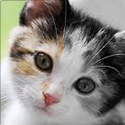
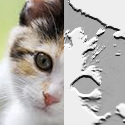
new demos

diff --git a/filter.html b/filter.html
@@ -1,0 +1,197 @@
+<html>
+	<head>
+		<title>Synapse.js - Image Filters</title>
+		<meta charset="UTF-8">
+		<meta name="description" content="Training a neural network to learn several image filters - Synapse.js">
+		<meta name="keywords" content="javascript,node.js,neural networks,lstm,long short term memory,library,synapse">
+		<meta name="author" content="Juan Cazala">
+		<script src='js/jquery.js'></script>
+		<script src='js/synapse.js'></script>
+		<style>
+			html {
+				box-shadow: 0 0 50px gray inset;
+			}
+			body { 
+				font-family: "Lucida Console", Monaco, monospace;
+				padding: 0px 25px;
+				position: relative;
+			}
+
+			.title {
+				text-align: center;
+				color: rgb(71, 71, 71);;
+				font-size: 27px;
+				margin: 36px;
+			}
+
+			p {
+				padding: 10px;
+				font-size: 12px;
+			}
+			#footer {
+				position: absolute;
+				font-size: 11px;
+				bottom: 10px;
+				margin-left: 50%;
+				left: -245px;
+			}
+			a{
+				color: gray;
+			}
+
+			img, canvas {
+				border: 1px solid black;
+				padding: 2px;
+				margin-right: 10px;
+				margin-bottom: 10px;
+				display: block;
+			}
+
+			.image_frame {
+				display: inline-block;
+				text-align: center;
+				font-size: 12px;
+			}
+
+			.train {
+				display: none;
+			}
+		</style>
+		<script>
+
+			var perceptron = null;
+			var worker = null;
+			var index = 0;
+			var color_data = null;
+			var grayscale_data = null;
+			var original_data = null;
+			var canvas = null;
+			var context = null;
+			var size = 125 * 125;
+			var trial = 0;
+
+			$(function(){
+				canvas = canvas || document.getElementById('canvas');
+		        context = context || canvas.getContext('2d');
+			})
+
+			var getData = function(imageObj){
+
+				canvas = canvas || document.getElementById('canvas');
+		        context = context || canvas.getContext('2d');
+
+		        context.drawImage(imageObj, 0, 0);
+
+		        var imageData = context.getImageData(0, 0, 125, 125);
+		        return imageData.data;
+			}
+
+			var train = function(){
+				trial = 0;
+
+				perceptron = new Architect.Perceptron(27,8,3);
+		        color_data = getData(document.getElementById('input'));
+		        grayscale_data = getData(document.getElementById('output'));
+ 				original_data = getData(document.getElementById('original'));
+
+ 				$(".train").show();
+				iteration();
+			}
+
+			
+			var iteration = function(){
+				trial++;
+
+				for (index = 0; index < size; index+=2)
+				{
+					px = pixel(color_data, 0, 0);
+					px = px.concat(pixel(color_data, -1, -1));
+					px = px.concat(pixel(color_data, 0, -1));
+					px = px.concat(pixel(color_data, 1, -1));
+					px = px.concat(pixel(color_data, -1, 0));
+					px = px.concat(pixel(color_data, 1, 0));
+					px = px.concat(pixel(color_data, -1, 1));
+					px = px.concat(pixel(color_data, 0, 1));
+					px = px.concat(pixel(color_data, 1, 1));
+					perceptron.activate(px);
+					perceptron.propagate(.3, pixel(grayscale_data,0,0));
+				}
+				preview();
+			}
+
+			var pixel = function(data, ox, oy){
+				var y = index / 125 | 0;
+				var x = index % 125;
+
+				if (ox && (x + ox) > 0 && (x + ox) < 125)
+					x += ox;
+				if (oy && (y + oy) > 0 && (y + oy) < 125)
+					y += oy;
+
+				var red = data[((125 * y) + x) * 4];
+		        var green = data[((125 * y) + x) * 4 + 1];
+		        var blue = data[((125 * y) + x) * 4 + 2];
+
+		        return [red / 255, green / 255, blue / 255];
+			}
+
+			var preview = function(){
+				var imageData = context.getImageData(0, 0, 125, 125);
+				for (index = 0; index < size; index++)
+				{
+					var px = pixel(original_data, 0, 0);
+					px = px.concat(pixel(original_data, -1, -1));
+					px = px.concat(pixel(original_data, 0, -1));
+					px = px.concat(pixel(original_data, 1, -1));
+					px = px.concat(pixel(original_data, -1, 0));
+					px = px.concat(pixel(original_data, 1, 0));
+					px = px.concat(pixel(original_data, -1, 1));
+					px = px.concat(pixel(original_data, 0, 1));
+					px = px.concat(pixel(original_data, 1, 1));
+					var rgb = perceptron.activate(px);
+					imageData.data[index * 4] = (rgb[0] )* 255;
+					imageData.data[index * 4 + 1] = (rgb[1] ) * 255;
+					imageData.data[index * 4 + 2] = (rgb[2] ) * 255;
+				}
+				context.putImageData(imageData,0,0);
+				setTimeout(iteration,100);
+			}
+
+		</script>
+		<script>
+  (function(i,s,o,g,r,a,m){i['GoogleAnalyticsObject']=r;i[r]=i[r]||function(){
+  (i[r].q=i[r].q||[]).push(arguments)},i[r].l=1*new Date();a=s.createElement(o),
+  m=s.getElementsByTagName(o)[0];a.async=1;a.src=g;m.parentNode.insertBefore(a,m)
+  })(window,document,'script','//www.google-analytics.com/analytics.js','ga');
+
+  ga('create', 'UA-54879338-2', 'auto');
+  ga('send', 'pageview');
+
+</script>
+	</head>
+	<body>
+		
+		<div class='title'>Synapse.js - Image Filters</div>
+		<p> In this demo, a perceptron will be trained to learn how to apply different filters to an image. During the training, the network will receive a picture as an input, and a filtered version of that same picture as an output (RGB values of their pixels). Eventually, the network will be able to take any picture as input and it will output a filtered version of it.</p>
+		<p><b>Training set:</b></p>
+		<div class="image_frame"><img src='img/cat.png' id='input'/><span>input</span></div>
+		<div class="image_frame"><img src='img/cat_bw.png' id='output'/><span>output</span></div>
+
+		<p>&nbsp;</p>
+		<p> Start training: 
+			<select id="comboA" onchange="document.getElementById('output').src = this.value">
+				<option value="img/cat_bw.png">Grayscale</option>
+				<option value="img/cat_blur.png">Blur</option>
+				<option value="img/cat_glow.png">Glowing Edges</option>
+				<option value="img/cat_texture.png">Texture</option>
+				<option value="img/cat_neon.png">Neon Glow</option>
+			</select>
+			<button onclick="train();">START</button></p>
+		
+		<div class="train">
+		<div class="image_frame"><img src='img/cat_original.png' id='original'/><span>original</span></div>
+		<div class="image_frame"><canvas id='canvas' width =125 height=125></canvas><span>filtered</span></div>
+		</div>
+		<div id="footer"><a href='http://synapse.juancazala.com'>synapse.js</a> - javascript neural network library for node.js and the browser</div>
+	</body>
+</html>

diff --git a/dsr.html b/dsr.html
@@ -17,7 +17,6 @@
 				font-family: "Lucida Console", Monaco, monospace;
 				padding: 0px 25px;
 				position: relative;
-				line-height: 120%;
 			}
 			.title {
 				text-align: center;
@@ -41,7 +40,6 @@
 				color: gray;
 				padding-left: 13px;
 				font-size: 11px;
-				line-height: 100%;
 			}
 			.validate {
 				width: 16;
@@ -107,7 +105,6 @@
 			}
 
 			var train = function(){
-				$("#aux").remove();
 				$('.log').remove();
 				$("#log-validate").remove();
 
@@ -308,7 +305,7 @@
 			<li>Sequence: <span class="square" style="background-color:blue">&nbsp;</span> <span class="square" style="background-color:yellow">&nbsp;</span> <span class="square" style="background-color:yellow">&nbsp;</span> <span class="square" style="background-color:red">&nbsp;</span> <span class="square" style="background-color:blue">&nbsp;</span> <span class="square" style="background-color:yellow">&nbsp;</span> <span class="square" style="background-color:green">&nbsp;</span> <span class="square" style="background-color:yellow">&nbsp;</span> <span class="square" style="background-color:white">&nbsp;</span> <span class="square" style="background-color:black">&nbsp;</span></li>
 		</ul>
 		 <p>Note that the targets may appear at any point in the sequence, so the network cannot rely on their temporal position; rather, the network must recognize the symbols as targets and preferentially save them, along with temporal order information, in order to produce the correct output sequence.</p>
-		 <p>The network is trained to produce <b>no output</b> for all symbols except for the prompts, and for each prompt symbol the network must produce the output symbol which corresponds to the appropriate target from the sequence. For the sequence shown above, the prompts should output <span class="square" style="background-color:red">&nbsp;</span> <span class="square" style="background-color:green">&nbsp;</span>, respectively.</p>
+		 <p>The network is trained to produce <b>no output</b> for all symbols except the prompts, and for each prompt symbol the network must produce the output symbol which corresponds to the appropriate target from the sequence. For the sequence shown above, the prompts should output <span class="square" style="background-color:red">&nbsp;</span> <span class="square" style="background-color:green">&nbsp;</span>, respectively.</p>
 		 <p>The network doesn't have any prior knowledge of which are the target, distractor or prompt symbols, nor what is the length of the sequence, it has to learn all this information during its training process.</p>
 		 <p>In this sample a <a href='http://en.wikipedia.org/wiki/Long_short_term_memory'>Long Short Term Memory</a> network (6 input neurons, 7 memory blocks, and 2 output neurons) will be trained to complete the Distracted Sequence Recall task with a success rate of at least 95%.</p>
 		<p class='code'>var LSTM = new Architect.LSTM(6,7,2);<br>
@@ -319,7 +316,6 @@
 			<br>&nbsp;&nbsp;&nbsp;&nbsp;length: 10
 			<br>});</p>
 		<p> Start training: <button onclick="train();">START</button></p>
-		<p id="aux">&nbsp;</p>
 		<div id="footer"><a href='http://synapse.juancazala.com'>synapse.js</a> - javascript neural network library for node.js and the browser</div>
 	</body>
 </html>

diff --git a/paint.html b/paint.html
@@ -2,7 +2,7 @@
 	<head>
 		<title>Synapse.js - Painting</title>
 		<meta charset="UTF-8">
-		<meta name="description" content="Training a neural network to solve an XOR - Synapse.js">
+		<meta name="description" content="Training a neural network to paint a canvas - Synapse.js">
 		<meta name="keywords" content="javascript,node.js,neural networks,lstm,long short term memory,library,synapse">
 		<meta name="author" content="Juan Cazala">
 		<script src='js/jquery.js'></script>
@@ -15,7 +15,6 @@
 				font-family: "Lucida Console", Monaco, monospace;
 				padding: 0px 25px;
 				position: relative;
-				line-height: 120%;
 			}
 
 			.title {
@@ -95,7 +94,7 @@
 				preview();
 			}
 
-			var iterate = function(){
+			var entrenar = function(){
 				
 				for (var x = 0; x < 125; x+=1)
 				{
@@ -132,7 +131,7 @@
 					}
 				}
 				context.putImageData(imageData,0,0);
-				to = setTimeout(iterate,16);
+				to = setTimeout(entrenar,16);
 			}
 
 		</script>
@@ -155,6 +154,7 @@
 		<div class="train">
 		<div class="image_frame"><img src='img/twitter.png' id='twitter'/><span>original</span></div>
 		<div class="image_frame"><canvas id='canvas' width =125 height=125></canvas><span>painted</span></div>
+		<p>&nbsp;</p>
 		<p>It may take a few thousand iterations for the painted image to start looking like the original, this is an example after 5000 iterations:</p>
 		<div class="image_frame" style="text-align: center;"><img src='img/twitter_painted.png'/></div>
 		</div>

diff --git a/index.html b/index.html
@@ -78,7 +78,7 @@
 		<p><b>Demos:</b>
 			<a href='xor.html'><div class="image_frame"><img src='img/demo1.png'/><span>Learn XOR</span></div></a>
 			<a href='dsr.html'><div class="image_frame"><img src='img/demo2.png'/><span>Discrete Sequence Recall</span></div></a>
-			<a href='grayscale.html'><div class="image_frame"><img src='img/demo3.png'/><span>Learn how to grayscale</span></div></a>
+			<a href='filter.html'><div class="image_frame"><img src='img/demo3.png'/><span>Image filters</span></div></a>
 			<a href='paint.html'><div class="image_frame"><img src='img/demo4.png'/><span>Paint an image</span></div></a>
 			<a href='wiki.html'><div class="image_frame"><img src='img/demo5.png'/><span>Read from Wikipedia</span></div></a>
 		</p>

diff --git a/xor.html b/xor.html
@@ -15,7 +15,6 @@
 				font-family: "Lucida Console", Monaco, monospace;
 				padding: 0px 25px;
 				position: relative;
-				line-height: 120%;
 			}
 
 			.title {
@@ -39,7 +38,6 @@
 				color: gray;
 				padding-left: 13px;
 				font-size: 11px;
-				line-height: 100%;
 			}
 			.validate {
 				width: 16;

diff --git a/wiki.html b/wiki.html
@@ -26,7 +26,6 @@
 				font-family: "Lucida Console", Monaco, monospace;
 				padding: 0px 25px;
 				position: relative;
-				line-height: 120%;
 			}
 			.title {
 				text-align: center;
